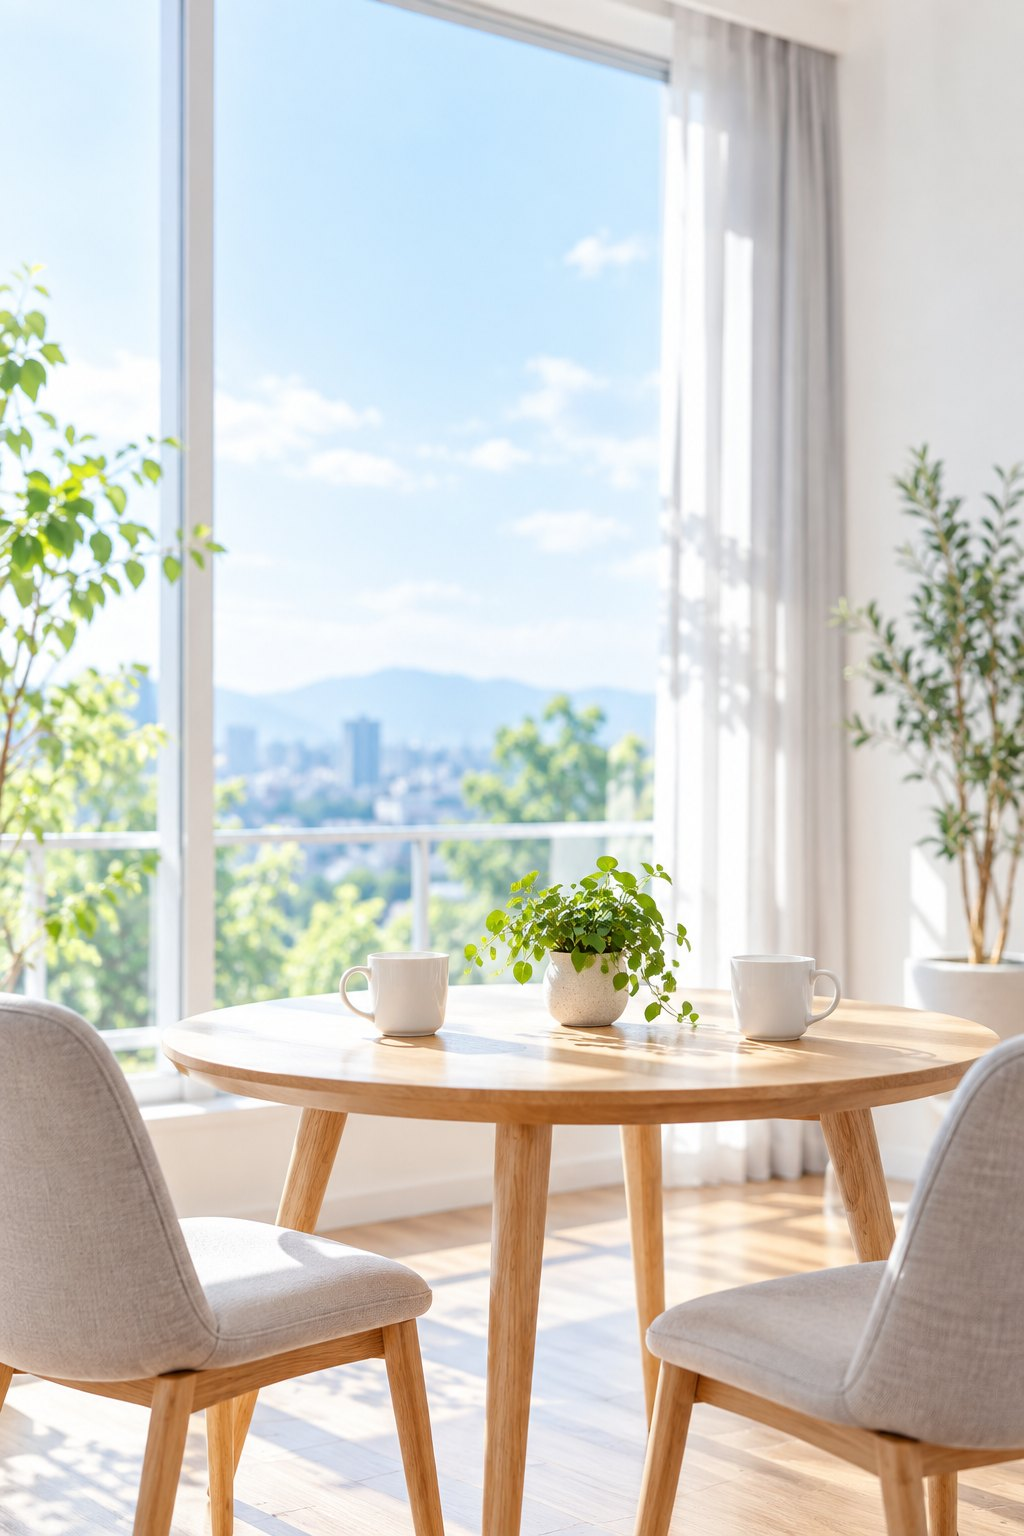
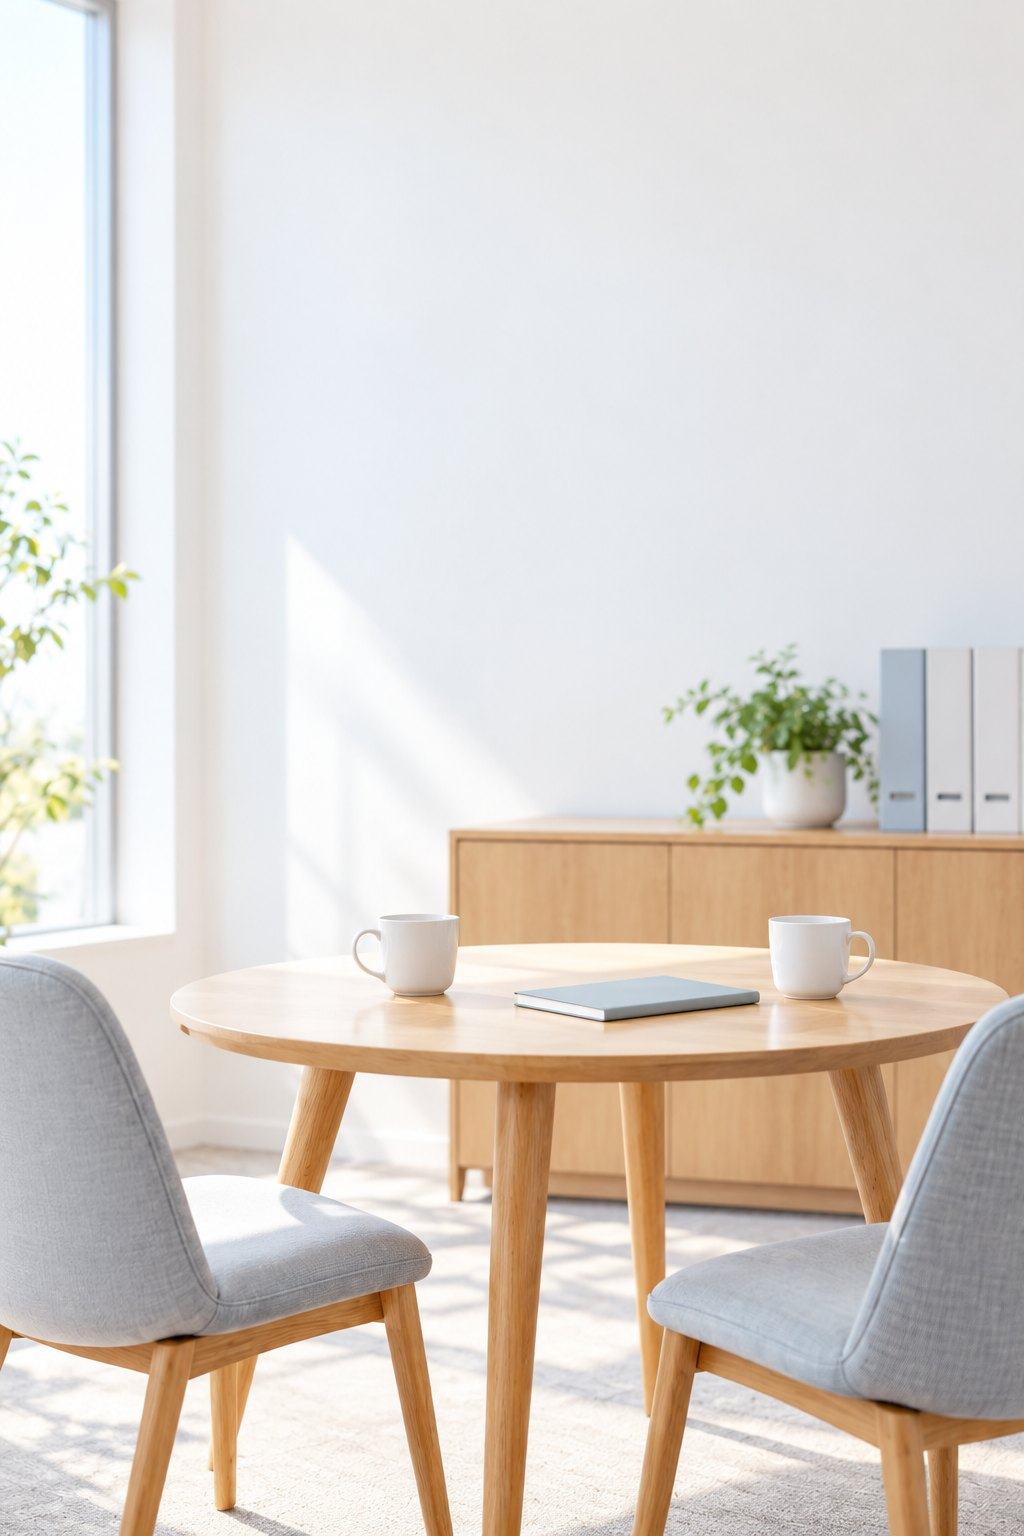
私たちについての写真を、相談室らしいものに差し替える
窓の外の景色が大きく住宅・インテリア会社に見えたため、白い壁と収納棚の事務所らしい写真にした。

Claude-Session: https://claude.ai/code/session_01KkaKmMG2WL4xNVgzHVE23Y

diff --git a/news/20230920/index.html b/news/20230920/index.html
@@ -9,7 +9,7 @@
 <link rel="preconnect" href="https://fonts.googleapis.com">
 <link rel="preconnect" href="https://fonts.gstatic.com" crossorigin>
 <link href="https://fonts.googleapis.com/css2?family=Montserrat:wght@500;600&family=Noto+Sans+JP:wght@400;500;700&family=Noto+Serif+JP:wght@500;600&display=swap" rel="stylesheet">
-<link rel="stylesheet" href="../../assets/style.css?v=6c2108c8">
+<link rel="stylesheet" href="../../assets/style.css?v=3aa374b9">
 </head>
 <body>
 <svg width="0" height="0" style="position:absolute" aria-hidden="true">
@@ -128,6 +128,6 @@
   <a class="t" href="tel:0529906159"><svg><use href="#i-tel"/></svg>電話する</a>
 </div>
 
-<script src="../../assets/main.js?v=6c2108c8"></script>
+<script src="../../assets/main.js?v=3aa374b9"></script>
 </body>
 </html>

diff --git a/about/index.html b/about/index.html
@@ -9,7 +9,7 @@
 <link rel="preconnect" href="https://fonts.googleapis.com">
 <link rel="preconnect" href="https://fonts.gstatic.com" crossorigin>
 <link href="https://fonts.googleapis.com/css2?family=Montserrat:wght@500;600&family=Noto+Sans+JP:wght@400;500;700&family=Noto+Serif+JP:wght@500;600&display=swap" rel="stylesheet">
-<link rel="stylesheet" href="../assets/style.css?v=6c2108c8">
+<link rel="stylesheet" href="../assets/style.css?v=3aa374b9">
 </head>
 <body>
 <svg width="0" height="0" style="position:absolute" aria-hidden="true">
@@ -155,6 +155,6 @@
   <a class="t" href="tel:0529906159"><svg><use href="#i-tel"/></svg>電話する</a>
 </div>
 
-<script src="../assets/main.js?v=6c2108c8"></script>
+<script src="../assets/main.js?v=3aa374b9"></script>
 </body>
 </html>

diff --git a/business/index.html b/business/index.html
@@ -9,7 +9,7 @@
 <link rel="preconnect" href="https://fonts.googleapis.com">
 <link rel="preconnect" href="https://fonts.gstatic.com" crossorigin>
 <link href="https://fonts.googleapis.com/css2?family=Montserrat:wght@500;600&family=Noto+Sans+JP:wght@400;500;700&family=Noto+Serif+JP:wght@500;600&display=swap" rel="stylesheet">
-<link rel="stylesheet" href="../assets/style.css?v=6c2108c8">
+<link rel="stylesheet" href="../assets/style.css?v=3aa374b9">
 </head>
 <body>
 <svg width="0" height="0" style="position:absolute" aria-hidden="true">
@@ -175,6 +175,6 @@
   <a class="t" href="tel:0529906159"><svg><use href="#i-tel"/></svg>電話する</a>
 </div>
 
-<script src="../assets/main.js?v=6c2108c8"></script>
+<script src="../assets/main.js?v=3aa374b9"></script>
 </body>
 </html>

diff --git a/company/index.html b/company/index.html
@@ -9,7 +9,7 @@
 <link rel="preconnect" href="https://fonts.googleapis.com">
 <link rel="preconnect" href="https://fonts.gstatic.com" crossorigin>
 <link href="https://fonts.googleapis.com/css2?family=Montserrat:wght@500;600&family=Noto+Sans+JP:wght@400;500;700&family=Noto+Serif+JP:wght@500;600&display=swap" rel="stylesheet">
-<link rel="stylesheet" href="../assets/style.css?v=6c2108c8">
+<link rel="stylesheet" href="../assets/style.css?v=3aa374b9">
 </head>
 <body>
 <svg width="0" height="0" style="position:absolute" aria-hidden="true">
@@ -138,6 +138,6 @@
   <a class="t" href="tel:0529906159"><svg><use href="#i-tel"/></svg>電話する</a>
 </div>
 
-<script src="../assets/main.js?v=6c2108c8"></script>
+<script src="../assets/main.js?v=3aa374b9"></script>
 </body>
 </html>

diff --git a/contact/index.html b/contact/index.html
@@ -9,7 +9,7 @@
 <link rel="preconnect" href="https://fonts.googleapis.com">
 <link rel="preconnect" href="https://fonts.gstatic.com" crossorigin>
 <link href="https://fonts.googleapis.com/css2?family=Montserrat:wght@500;600&family=Noto+Sans+JP:wght@400;500;700&family=Noto+Serif+JP:wght@500;600&display=swap" rel="stylesheet">
-<link rel="stylesheet" href="../assets/style.css?v=6c2108c8">
+<link rel="stylesheet" href="../assets/style.css?v=3aa374b9">
 </head>
 <body>
 <svg width="0" height="0" style="position:absolute" aria-hidden="true">
@@ -152,6 +152,6 @@
   <a class="t" href="tel:0529906159"><svg><use href="#i-tel"/></svg>電話する</a>
 </div>
 
-<script src="../assets/main.js?v=6c2108c8"></script>
+<script src="../assets/main.js?v=3aa374b9"></script>
 </body>
 </html>

diff --git a/informationsecurity/index.html b/informationsecurity/index.html
@@ -9,7 +9,7 @@
 <link rel="preconnect" href="https://fonts.googleapis.com">
 <link rel="preconnect" href="https://fonts.gstatic.com" crossorigin>
 <link href="https://fonts.googleapis.com/css2?family=Montserrat:wght@500;600&family=Noto+Sans+JP:wght@400;500;700&family=Noto+Serif+JP:wght@500;600&display=swap" rel="stylesheet">
-<link rel="stylesheet" href="../assets/style.css?v=6c2108c8">
+<link rel="stylesheet" href="../assets/style.css?v=3aa374b9">
 </head>
 <body>
 <svg width="0" height="0" style="position:absolute" aria-hidden="true">
@@ -125,6 +125,6 @@
   <a class="t" href="tel:0529906159"><svg><use href="#i-tel"/></svg>電話する</a>
 </div>
 
-<script src="../assets/main.js?v=6c2108c8"></script>
+<script src="../assets/main.js?v=3aa374b9"></script>
 </body>
 </html>

diff --git a/insurance/index.html b/insurance/index.html
@@ -9,7 +9,7 @@
 <link rel="preconnect" href="https://fonts.googleapis.com">
 <link rel="preconnect" href="https://fonts.gstatic.com" crossorigin>
 <link href="https://fonts.googleapis.com/css2?family=Montserrat:wght@500;600&family=Noto+Sans+JP:wght@400;500;700&family=Noto+Serif+JP:wght@500;600&display=swap" rel="stylesheet">
-<link rel="stylesheet" href="../assets/style.css?v=6c2108c8">
+<link rel="stylesheet" href="../assets/style.css?v=3aa374b9">
 </head>
 <body>
 <svg width="0" height="0" style="position:absolute" aria-hidden="true">
@@ -193,6 +193,6 @@
   <a class="t" href="tel:0529906159"><svg><use href="#i-tel"/></svg>電話する</a>
 </div>
 
-<script src="../assets/main.js?v=6c2108c8"></script>
+<script src="../assets/main.js?v=3aa374b9"></script>
 </body>
 </html>

diff --git a/news/index.html b/news/index.html
@@ -9,7 +9,7 @@
 <link rel="preconnect" href="https://fonts.googleapis.com">
 <link rel="preconnect" href="https://fonts.gstatic.com" crossorigin>
 <link href="https://fonts.googleapis.com/css2?family=Montserrat:wght@500;600&family=Noto+Sans+JP:wght@400;500;700&family=Noto+Serif+JP:wght@500;600&display=swap" rel="stylesheet">
-<link rel="stylesheet" href="../assets/style.css?v=6c2108c8">
+<link rel="stylesheet" href="../assets/style.css?v=3aa374b9">
 </head>
 <body>
 <svg width="0" height="0" style="position:absolute" aria-hidden="true">
@@ -121,6 +121,6 @@
   <a class="t" href="tel:0529906159"><svg><use href="#i-tel"/></svg>電話する</a>
 </div>
 
-<script src="../assets/main.js?v=6c2108c8"></script>
+<script src="../assets/main.js?v=3aa374b9"></script>
 </body>
 </html>

diff --git a/operation/index.html b/operation/index.html
@@ -9,7 +9,7 @@
 <link rel="preconnect" href="https://fonts.googleapis.com">
 <link rel="preconnect" href="https://fonts.gstatic.com" crossorigin>
 <link href="https://fonts.googleapis.com/css2?family=Montserrat:wght@500;600&family=Noto+Sans+JP:wght@400;500;700&family=Noto+Serif+JP:wght@500;600&display=swap" rel="stylesheet">
-<link rel="stylesheet" href="../assets/style.css?v=6c2108c8">
+<link rel="stylesheet" href="../assets/style.css?v=3aa374b9">
 </head>
 <body>
 <svg width="0" height="0" style="position:absolute" aria-hidden="true">
@@ -136,6 +136,6 @@
   <a class="t" href="tel:0529906159"><svg><use href="#i-tel"/></svg>電話する</a>
 </div>
 
-<script src="../assets/main.js?v=6c2108c8"></script>
+<script src="../assets/main.js?v=3aa374b9"></script>
 </body>
 </html>

diff --git a/privacyprotection/index.html b/privacyprotection/index.html
@@ -9,7 +9,7 @@
 <link rel="preconnect" href="https://fonts.googleapis.com">
 <link rel="preconnect" href="https://fonts.gstatic.com" crossorigin>
 <link href="https://fonts.googleapis.com/css2?family=Montserrat:wght@500;600&family=Noto+Sans+JP:wght@400;500;700&family=Noto+Serif+JP:wght@500;600&display=swap" rel="stylesheet">
-<link rel="stylesheet" href="../assets/style.css?v=6c2108c8">
+<link rel="stylesheet" href="../assets/style.css?v=3aa374b9">
 </head>
 <body>
 <svg width="0" height="0" style="position:absolute" aria-hidden="true">
@@ -188,6 +188,6 @@
   <a class="t" href="tel:0529906159"><svg><use href="#i-tel"/></svg>電話する</a>
 </div>
 
-<script src="../assets/main.js?v=6c2108c8"></script>
+<script src="../assets/main.js?v=3aa374b9"></script>
 </body>
 </html>

diff --git a/recruitment/index.html b/recruitment/index.html
@@ -9,7 +9,7 @@
 <link rel="preconnect" href="https://fonts.googleapis.com">
 <link rel="preconnect" href="https://fonts.gstatic.com" crossorigin>
 <link href="https://fonts.googleapis.com/css2?family=Montserrat:wght@500;600&family=Noto+Sans+JP:wght@400;500;700&family=Noto+Serif+JP:wght@500;600&display=swap" rel="stylesheet">
-<link rel="stylesheet" href="../assets/style.css?v=6c2108c8">
+<link rel="stylesheet" href="../assets/style.css?v=3aa374b9">
 </head>
 <body>
 <svg width="0" height="0" style="position:absolute" aria-hidden="true">
@@ -120,6 +120,6 @@
   <a class="t" href="tel:0529906159"><svg><use href="#i-tel"/></svg>電話する</a>
 </div>
 
-<script src="../assets/main.js?v=6c2108c8"></script>
+<script src="../assets/main.js?v=3aa374b9"></script>
 </body>
 </html>

diff --git a/service/index.html b/service/index.html
@@ -9,7 +9,7 @@
 <link rel="preconnect" href="https://fonts.googleapis.com">
 <link rel="preconnect" href="https://fonts.gstatic.com" crossorigin>
 <link href="https://fonts.googleapis.com/css2?family=Montserrat:wght@500;600&family=Noto+Sans+JP:wght@400;500;700&family=Noto+Serif+JP:wght@500;600&display=swap" rel="stylesheet">
-<link rel="stylesheet" href="../assets/style.css?v=6c2108c8">
+<link rel="stylesheet" href="../assets/style.css?v=3aa374b9">
 </head>
 <body>
 <svg width="0" height="0" style="position:absolute" aria-hidden="true">
@@ -151,6 +151,6 @@
   <a class="t" href="tel:0529906159"><svg><use href="#i-tel"/></svg>電話する</a>
 </div>
 
-<script src="../assets/main.js?v=6c2108c8"></script>
+<script src="../assets/main.js?v=3aa374b9"></script>
 </body>
 </html>
